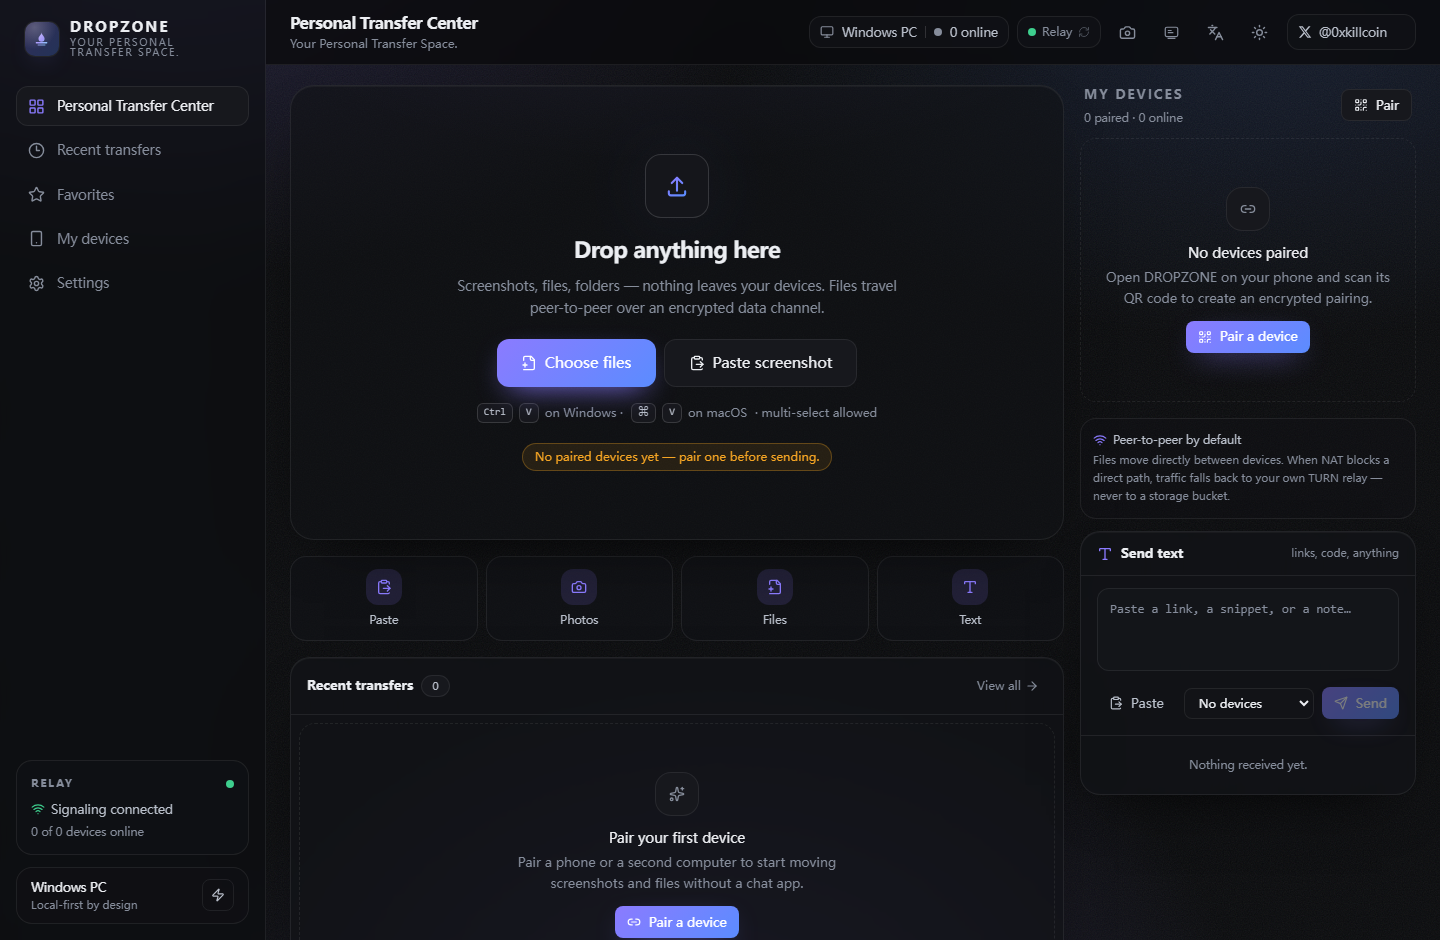
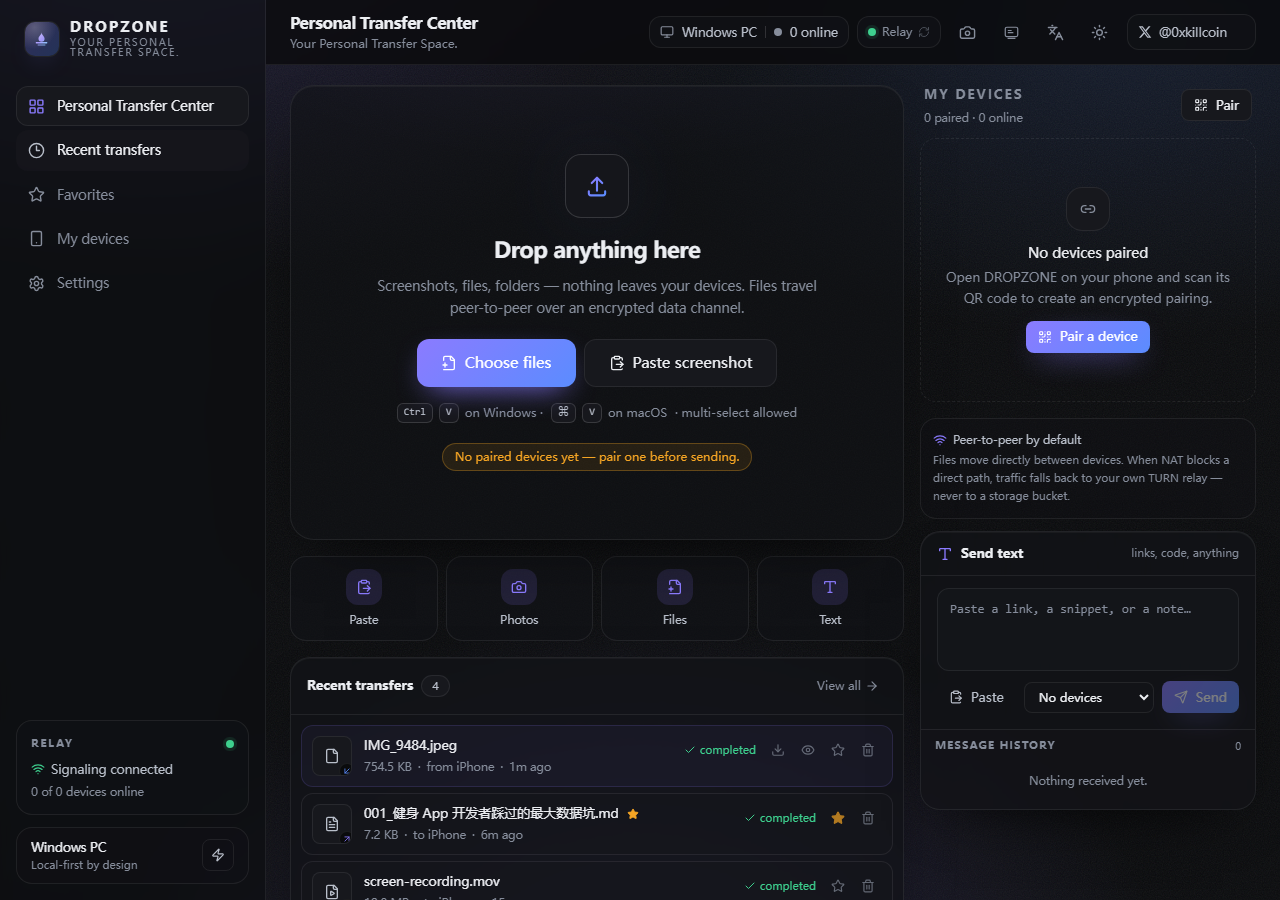
DROPZONE 1.0.0 — local-first P2P transfer workspace
React + Vite + Tailwind UI, WebRTC data-channel transfer engine with
64 KiB chunking and incremental SHA-256 verification, ECDSA device
identity with one-time QR pairing, Dexie local history, protocol v1
signaling relay (Node + Cloudflare Worker) and coturn config.

diff --git a/src/views/Workspace.tsx b/src/views/Workspace.tsx
@@ -92,7 +92,7 @@ export function Workspace({ onNavigate, onPair }: { onNavigate: (view: ViewKey) 
               {t('ws.viewAll')} <ArrowRight className="size-3.5" />
             </button>
           </div>
-          <div className="p-2">
+          <div className="p-2.5">
             {recent.length === 0 ? (
               <EmptyState
                 icon={<Sparkles className="size-4" />}
@@ -107,7 +107,7 @@ export function Workspace({ onNavigate, onPair }: { onNavigate: (view: ViewKey) 
                 }
               />
             ) : (
-              <ul className="space-y-0.5">
+              <ul className="space-y-1.5">
                 {recent.map((record) => (
                   <TransferRow
                     key={record.id}

diff --git a/src/components/TransferRow.tsx b/src/components/TransferRow.tsx
@@ -121,7 +121,10 @@ export function TransferRow({
       animate={{ opacity: 1, y: 0 }}
       exit={{ opacity: 0, height: 0 }}
       className={cn(
-        'group relative flex items-start gap-3 rounded-xl border border-transparent px-2.5 py-2.5 transition-colors hover:border-line hover:bg-surface-2/60',
+        'group relative flex items-start gap-3 rounded-xl border px-2.5 py-2.5 transition-all',
+        record.direction === 'in'
+          ? 'border-accent-line/45 bg-accent-soft/35 hover:border-accent-line/70 hover:bg-accent-soft/55'
+          : 'border-line bg-surface-2/45 hover:border-line-strong hover:bg-surface-2/70',
         compact ? '' : 'sm:px-3',
       )}
     >

diff --git a/src/views/History.tsx b/src/views/History.tsx
@@ -123,7 +123,7 @@ export function History({ favoritesOnly = false }: { favoritesOnly?: boolean }) 
             description={favoritesOnly ? t('hist.emptyFavDesc') : t('hist.emptyDesc')}
           />
         ) : (
-          <ul className="space-y-0.5">
+          <ul className="space-y-1.5">
             {rows.map((record) => (
               <TransferRow
                 key={record.id}

diff --git a/README.md b/README.md
@@ -72,6 +72,7 @@
 - 🔔 **通知提示**：连接、进度、完成与失败都有 toast。
 - ✅ **接收前确认**：关闭「自动接收」后，收到文件会先弹出确认框（显示来源设备、文件名与大小），任何字节开始传输前由你决定；拒绝时会明确告知发送方，而不是无响应失败。
 - 📥 **刚收到货架**：收到的文件以卡片形式列在工作台顶部，一次点击即可保存；历史记录整行可点（图片开灯箱预览，其他类型直接下载），内容已被保留策略清理时给出明确提示。
+- 🗂 **传输记录卡片**：最近传输/历史里的每一条也有淡色底——收到为紫调、发出为中性灰，配方向色条与圆角描边，悬停时加深；状态、速度、错误信息都在卡片内呈现，不再是白底列表。
 - 💬 **消息记录卡片**：文字面板下方的历史不再是一排白底文字——收到（紫调）与发出（中性灰）各有底色与左侧色条，一眼区分方向；点复制按钮会变成绿色 ✓ 并保持 1.6 秒，复制成功与否立刻可见。
 - 🗜 **打包下载**：历史页可把全部已接收文件一次性打成 ZIP（编码器按需加载，不进首屏）。
 - 🗂 **纯本地历史**：传输记录、收藏与文本便签只存在本机 IndexedDB。
@@ -276,6 +277,7 @@ What DROPZONE is not: it is not a cloud drive, not a backup service, and not a f
 - ⏯ **Resume inside a live session** — a dropped transfer restarts from the last acknowledged chunk offset while the session is alive.
 - 🔔 **Notification toasts** — connect, progress milestones, completion and failures.
 - 📥 **Arrival shelf** — every received file is listed for one click ("Save") instead of being buried in history; clicking a row in the history opens images in a viewer or saves the file, and a row whose bytes were pruned says so instead of doing nothing.
+- 🗂 **Tinted transfer rows** — every entry in Recent transfers and History is its own card: received files get a violet wash and sent files a neutral one, each with a direction stripe, rounded border and a hover lift, so a long list stays readable at a glance.
 - 💬 **Message cards** — the text panel's history is no longer a flat list: received notes get a violet tint and sent notes a neutral one, each with a direction stripe, and the copy button turns into a green ✓ for 1.6 s so a successful copy is obvious.
 - ✅ **Accept or decline** — with auto-receive off, the receiver gets a prompt showing the sender, file name and size *before* any bytes flow; declining tells the sender explicitly instead of failing silently.
 - 🗜 **Download ZIP** — batch-pack every received file from the history into one archive (the encoder is lazy-loaded, so it costs nothing until used).
